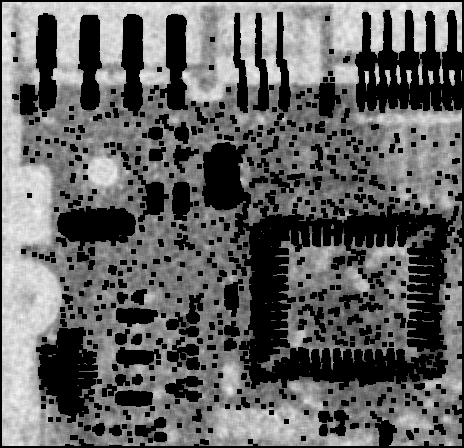
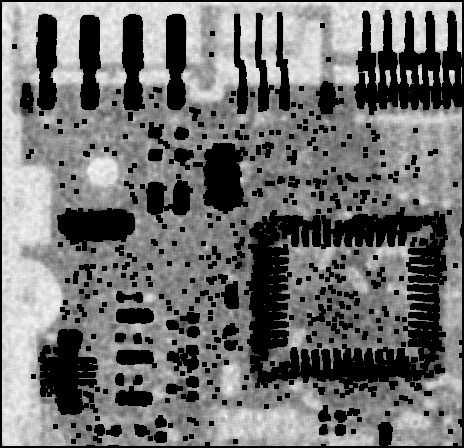
Add salt and pepper noise and denoise

diff --git a/04_Restoration_ColorImg/src/img_denoise.py b/04_Restoration_ColorImg/src/img_denoise.py
@@ -20,13 +20,13 @@ def add_noise(img, noise_type, params):
         noisy_img += gauss
     elif noise_type == "s&p":
         # salt noise
-        salt_prop = params.get('salt_prop', 0)
-        num_salt = int(np.ceil(salt_prop * img.size))
+        salt_prob = params.get('salt_prob', 0)
+        num_salt = int(np.ceil(salt_prob * img.size))
         coords = get_random_coords(img.shape, num_salt)
         noisy_img[coords] = 255
         # pepper noise
-        pepper_prop = params.get('pepper_prop', 0)
-        num_pepper = int(np.ceil(pepper_prop * img.size))
+        pepper_prob = params.get('pepper_prob', 0)
+        num_pepper = int(np.ceil(pepper_prob * img.size))
         coords = get_random_coords(img.shape, num_pepper)
         noisy_img[coords] = 0
     else:
@@ -59,6 +59,7 @@ def main():
     input_img = np.array(Image.open('images/task_2.png').convert('L'),
                          dtype=np.float64)
 
+    # gaussian noise and denoise
     output_img = add_noise(input_img, "gauss", {'mean': 0, 'sigma': 40})
     save_img(output_img, "images/gauss_0_40_task_2.png")
     output_img = np.clip(output_img, 0, 255)
@@ -68,7 +69,30 @@ def main():
         cur_img = filter2d(output_img, cur_filter)
         save_img(cur_img, "images/gauss_0_40_%s_task_2.png" % filter_type)
 
+    # salt noise and denoise
+    output_img = add_noise(input_img, "s&p", {'salt_prob': 0.2})
+    save_img(output_img, "images/salt_2_task_2.png")
+    output_img = np.clip(output_img, 0, 255)
+    # harmonic mean filter denoise
+    harmonic_filter = MyFilter("harmonic", 5)
+    cur_img = filter2d(output_img, harmonic_filter)
+    save_img(cur_img, "images/salt_2_harmonic_task_2.png")
+    # contraharmonic mean filter
+    for contra_q in [-1.5, 1.0]:
+        cur_filter = MyFilter("contraharmonic", 5, contra_q)
+        cur_img = filter2d(output_img, cur_filter)
+        save_img(cur_img, "images/salt_2_contra_%d_task_2.png" % contra_q)
 
+    # salt and pepper noise and denoise
+    output_img = add_noise(input_img, "s&p", {'salt_prob': 0.2,
+                                              'pepper_prob': 0.2})
+    save_img(output_img, "images/salt_2_pepper_2_task_2.png")
+    output_img = np.clip(output_img, 0, 255)
+    filters_type = ["arithmetic", "geometric", "max", "min", "median"]
+    for filter_type in filters_type:
+        cur_filter = MyFilter(filter_type, 5)
+        cur_img = filter2d(output_img, cur_filter)
+        save_img(cur_img, "images/salt_2_pepper_2_%s_task_2.png" % filter_type)
 
 
 if __name__ == "__main__":

diff --git a/04_Restoration_ColorImg/src/img_filter.py b/04_Restoration_ColorImg/src/img_filter.py
@@ -5,9 +5,10 @@ from PIL import Image
 
 
 class MyFilter:
-    def __init__(self, filter_type, filter_size):
+    def __init__(self, filter_type, filter_size, contra_q=None):
         self.filter_type = filter_type
         self.filter_size = filter_size
+        self.contra_q = contra_q
 
     def filtering(self, img_block):
         res = None
@@ -16,13 +17,16 @@ class MyFilter:
         elif self.filter_type == "harmonic":
             res = img_block.size / np.sum(1.0 / (img_block + 1e-9))
         elif self.filter_type == "contraharmonic":
-            Q = -1.5
             img_block += 1e-9
-            res = np.sum(img_block ** (Q + 1)) / np.sum(img_block ** Q)
+            res = np.sum(img_block ** (self.contra_q + 1)) / np.sum(img_block ** self.contra_q)
         elif self.filter_type == "geometric":
             res = np.prod(img_block) ** (1.0 / img_block.size)
         elif self.filter_type == "median":
             res = np.median(img_block)
+        elif self.filter_type == "max":
+            res = np.amax(img_block)
+        elif self.filter_type == "min":
+            res = np.amin(img_block)
         else:
             raise ValueError("Filter type is not supported yet.")
         return res
@@ -55,7 +59,10 @@ def main():
     filters_size = [3, 9]
     for filter_type in filters_type:
         for filter_size in filters_size:
-            cur_filter = MyFilter(filter_type, filter_size)
+            if filter_type == "contraharmonic":
+                cur_filter = MyFilter(filter_type, filter_size, -1.5)
+            else:
+                cur_filter = MyFilter(filter_type, filter_size)
             output_img = filter2d(input_img, cur_filter)
             # output_img = np.clip(output_img, 0, 255)
             output_img = Image.fromarray(output_img.astype(np.uint8), 'L')

diff --git a/04_Restoration_ColorImg/report.md b/04_Restoration_ColorImg/report.md
@@ -59,3 +59,39 @@ Denoise using geometric mean filter with window size = 5
 Denoise using median filter with window size = 5
 
 The one with arithmetic mean filter looks best, while the one with geometric mean fitler looks worest.
+
+* **2.3.3 Add salt noise and denoise**
+
+![](src/images/salt_2_task_2.png)<br>
+Add salt noise with probability = 0.2
+
+![](src/images/salt_2_harmonic_task_2.png)<br>
+Denoise using harmonic mean filter with windown size as 5
+
+![](src/images/salt_2_contra_-1_task_2.png)<br>
+Denoise using contraharmonic mean filter with $Q=-1.5$ and window size as 5
+
+![](src/images/salt_2_contra_1_task_2.png)<br>
+Denoise using contraharmonic mean filter with $Q=1.0$ and window size as 5
+
+* **2.3.4 Add salt-and-pepper noise and denoise**
+
+![](src/images/salt_2_pepper_2_task_2.png)<br>
+Add salt and pepper noise with both probabilities=2
+
+![](src/images/salt_2_pepper_2_arithmetic_task_2.png)<br>
+Denoise using arithmetic mean filter with window size as 5
+
+![](src/images/salt_2_pepper_2_geometric_task_2.png)<br>
+Denoise using geometric mean filter with window size as 5
+
+![](src/images/salt_2_pepper_2_max_task_2.png)<br>
+Denoise using max filter with window size as 5
+
+![](src/images/salt_2_pepper_2_min_task_2.png)<br>
+Denoise using min filter with window size as 5
+
+![](src/images/salt_2_pepper_2_median_task_2.png)<br>
+Denoise using median filter with window size as 5
+
+The image with median filter gets the best result.
